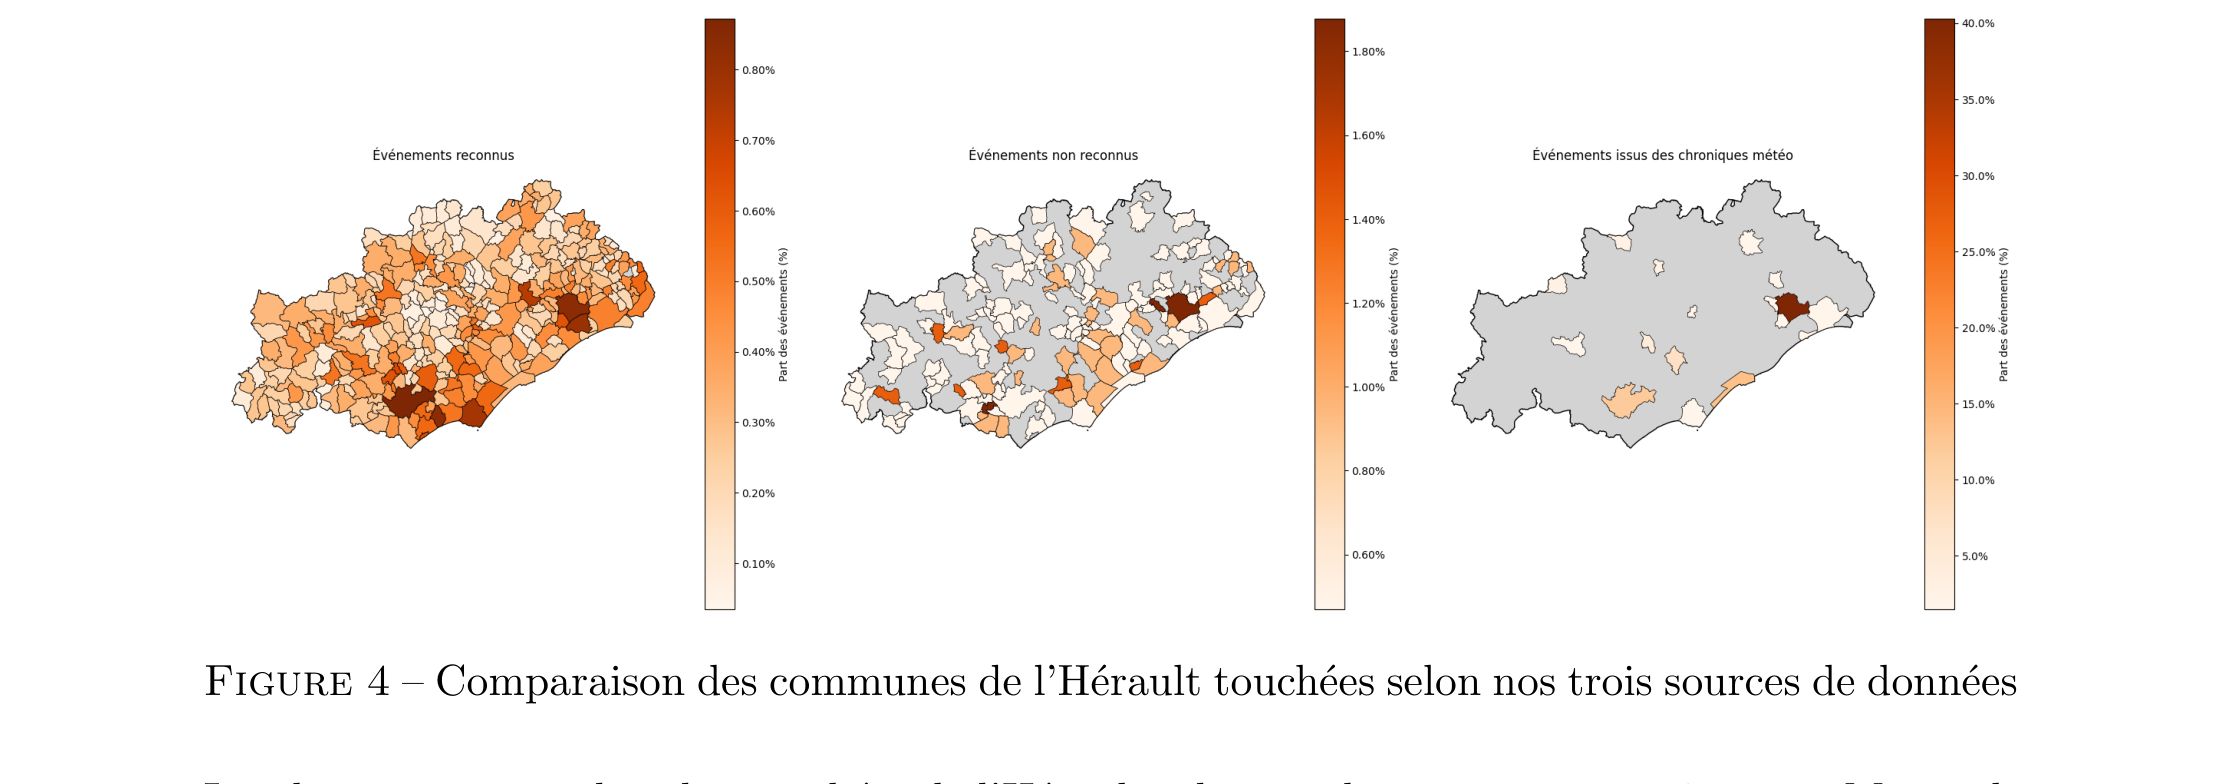
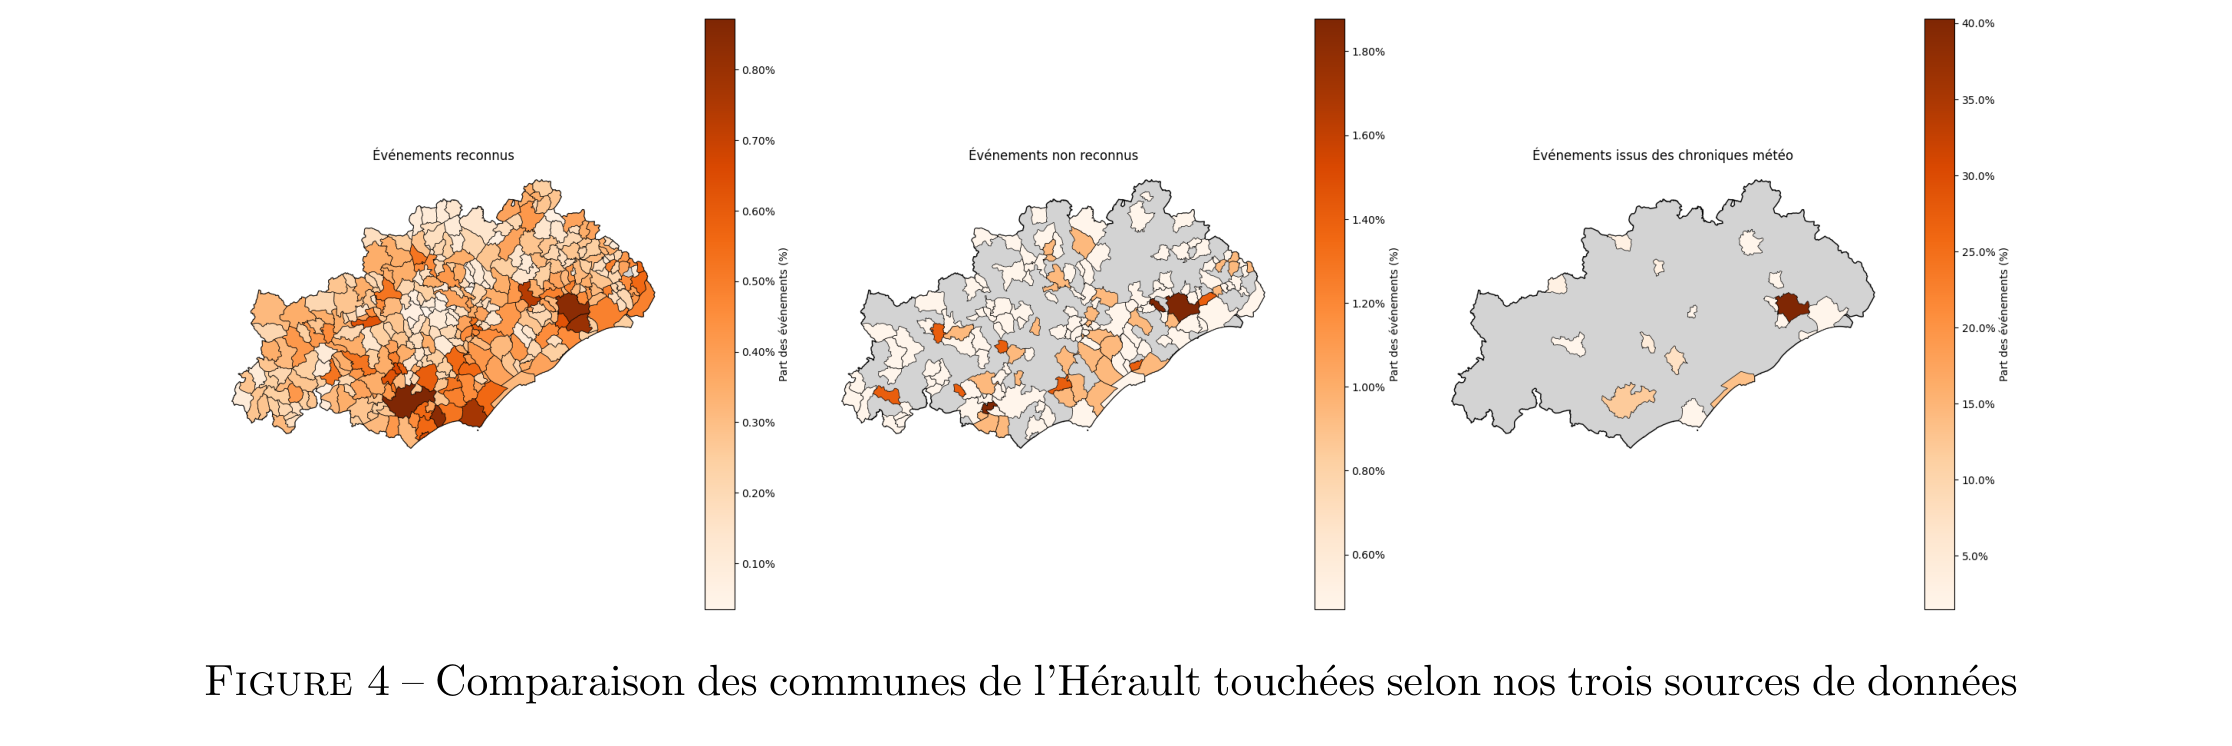
Mise à jour du site

diff --git a/docs/socio_economic_research/flood_risk_nlp/index.html b/docs/socio_economic_research/flood_risk_nlp/index.html
@@ -183,7 +183,7 @@ window.Quarto = {
 </header>
 
 
-<p>This page presents a project carried out as part of the <strong>Statistiques Appliquées (Statapp)</strong> course at ENSAE Paris, in partnership with <strong>Addactis France</strong> (supervised by Margaux Regnault and Mulah Moriah, and academically by Prof.&nbsp;Thierry Kamionka). The goal was to improve the measurement of flood risk in France by detecting floods that never made it into the official statistics — and then to model the risk at the level of individual municipalities.</p>
+<p>This page presents a project carried out as part of the <strong>Statistiques Appliquées (Statapp)</strong> course at ENSAE Paris, in partnership with <strong>Addactis France</strong>. The goal was to improve the measurement of flood risk in France by detecting floods that never made it into the official statistics — and then to model the risk at the level of individual municipalities.</p>
 <hr>
 <section id="the-problem-many-floods-are-never-officially-counted" class="level3">
 <h3 class="anchored" data-anchor-id="the-problem-many-floods-are-never-officially-counted">The Problem: Many Floods Are Never Officially Counted</h3>
@@ -201,12 +201,7 @@ window.Quarto = {
 <section id="step-2-a-second-alternative-source-the-ccr-database" class="level3">
 <h3 class="anchored" data-anchor-id="step-2-a-second-alternative-source-the-ccr-database">Step 2 — A Second Alternative Source: the CCR Database</h3>
 <p>The second source came from the <strong>Caisse Centrale de Réassurance (CCR)</strong>, which provided a database of claims that were submitted but not officially recognized as natural disasters. This database contained <strong>5,565 unrecognized events</strong>. We merged it with the NLP output, removing overlapping events (defined as the same commune with overlapping time windows), which left us <strong>8,039 new events</strong> not present in GASPAR.</p>
-<p>Merging these with GASPAR’s 146,628 events gave a <strong>final enriched database of 154,667 events</strong> — about 5.5% more data than GASPAR alone. The pie chart below shows the breakdown.</p>
-<div class="quarto-figure quarto-figure-center">
-<figure class="figure">
-<p><img src="fig_pie.png" class="img-fluid quarto-figure quarto-figure-center figure-img" style="width:70.0%"></p>
-</figure>
-</div>
+<p>Merging these with GASPAR’s 146,628 events gave a <strong>final enriched database of 154,667 events</strong> — about 5.5% more data than GASPAR alone.</p>
 <p>The three sources have quite different geographic footprints. The maps below compare which departments are most affected under each source — and they do not always agree.</p>
 <p><img src="fig_three_maps.png" class="img-fluid" style="width:100.0%"></p>
 <p>A striking example is the <strong>Hérault</strong> department in the south of France, which is prone to <em>épisodes cévenols</em> (intense Mediterranean rainfall events). The officially recognized data understates its risk, while both the CCR and NLP sources rank it among the most flood-affected departments in France.</p>

diff --git a/docs/teaching/probabilities/stick_triangle.html b/docs/teaching/probabilities/stick_triangle.html
@@ -198,7 +198,7 @@ window.Quarto = {
 <p>Since all length are positive, the possible region is <span class="math display">\[\begin{cases} x \ge 0 \\ y \ge 0 \\ y \le 1 -x \end{cases}.\]</span></p>
 <p>The broken pieces form a triangle if and only if all length are lower than the sum of the other sides. Thus we have <span class="math display">\[\begin{cases} x \le y + 1 -x -y \\  y \le y + 1 -x -y \\ 1 -x - y \le x + y  \end{cases} \sim \begin{cases} x \le 1/2 \\  y \le 1/2 \\ y \ge 1/2 -x   \end{cases}.\]</span></p>
 <p>We can plot the regions and we find <span class="math inline">\(\boxed{\mathbb{P}(\text{Triangle}) = \frac{A_{tri}}{A_{tot}}=\frac{1/8}{1/2}=1/4.}\)</span></p>
-<div id="10834660" class="cell" data-execution_count="1">
+<div id="447cba30" class="cell" data-execution_count="1">
 <div class="cell-output cell-output-display">
 <div>
 <figure class="figure">

diff --git a/docs/socio_economic_research.html b/docs/socio_economic_research.html
@@ -225,7 +225,7 @@ Jun 1, 2025
 </div>
 </div></a>
 </div>
-<div class="g-col-1" data-index="1" data-listing-date-sort="1748761200000" data-listing-file-modified-sort="1782854289284" data-listing-date-modified-sort="NaN" data-listing-reading-time-sort="12" data-listing-word-count-sort="2278">
+<div class="g-col-1" data-index="1" data-listing-date-sort="1748761200000" data-listing-file-modified-sort="1782864969059" data-listing-date-modified-sort="NaN" data-listing-reading-time-sort="12" data-listing-word-count-sort="2257">
 <a href="./socio_economic_research/flood_risk_nlp/index.html" class="quarto-grid-link">
 <div class="quarto-grid-item card h-100 card-left">
 <p class="card-img-top">

diff --git a/docs/teaching/probabilities/uniform_ratio.html b/docs/teaching/probabilities/uniform_ratio.html
@@ -198,7 +198,7 @@ window.Quarto = {
 <p>The condition if fulfilled if<br>
 <span class="math display">\[\begin{cases} x / y\le 2\\  x/y \ge 1  \end{cases} \sim \begin{cases} y \le x \\  y \le x/2  \end{cases}.\]</span></p>
 <p>We can plot the regions and we find <span class="math inline">\(\boxed{\mathbb{P}(1 \le X/Y \le2) = \frac{1-\frac{1*1}{2}-\frac{1*1/2}{2}}{1}= 1/4.}\)</span></p>
-<div id="930cea43" class="cell" data-execution_count="1">
+<div id="1fcc2a93" class="cell" data-execution_count="1">
 <div class="cell-output cell-output-display">
 <div>
 <figure class="figure">

diff --git a/docs/teaching/probabilities/uncertain_meeting.html b/docs/teaching/probabilities/uncertain_meeting.html
@@ -199,7 +199,7 @@ window.Quarto = {
 <p>The meeting happens if<br>
 <span class="math display">\[\begin{cases} x - y\le 1/2\\  y -x \le 1/2  \end{cases} \sim \begin{cases} y \ge x-1/2 \\  y \le x +1/2  \end{cases}.\]</span></p>
 <p>We can plot the regions and we find <span class="math inline">\(\boxed{\mathbb{P}(\text{Meet}) = \frac{1-2*\frac{1/2*1/2}{2}}{1}= 3/4.}\)</span></p>
-<div id="1126eb8b" class="cell" data-execution_count="1">
+<div id="7f748d56" class="cell" data-execution_count="1">
 <div class="cell-output cell-output-display">
 <div>
 <figure class="figure">
